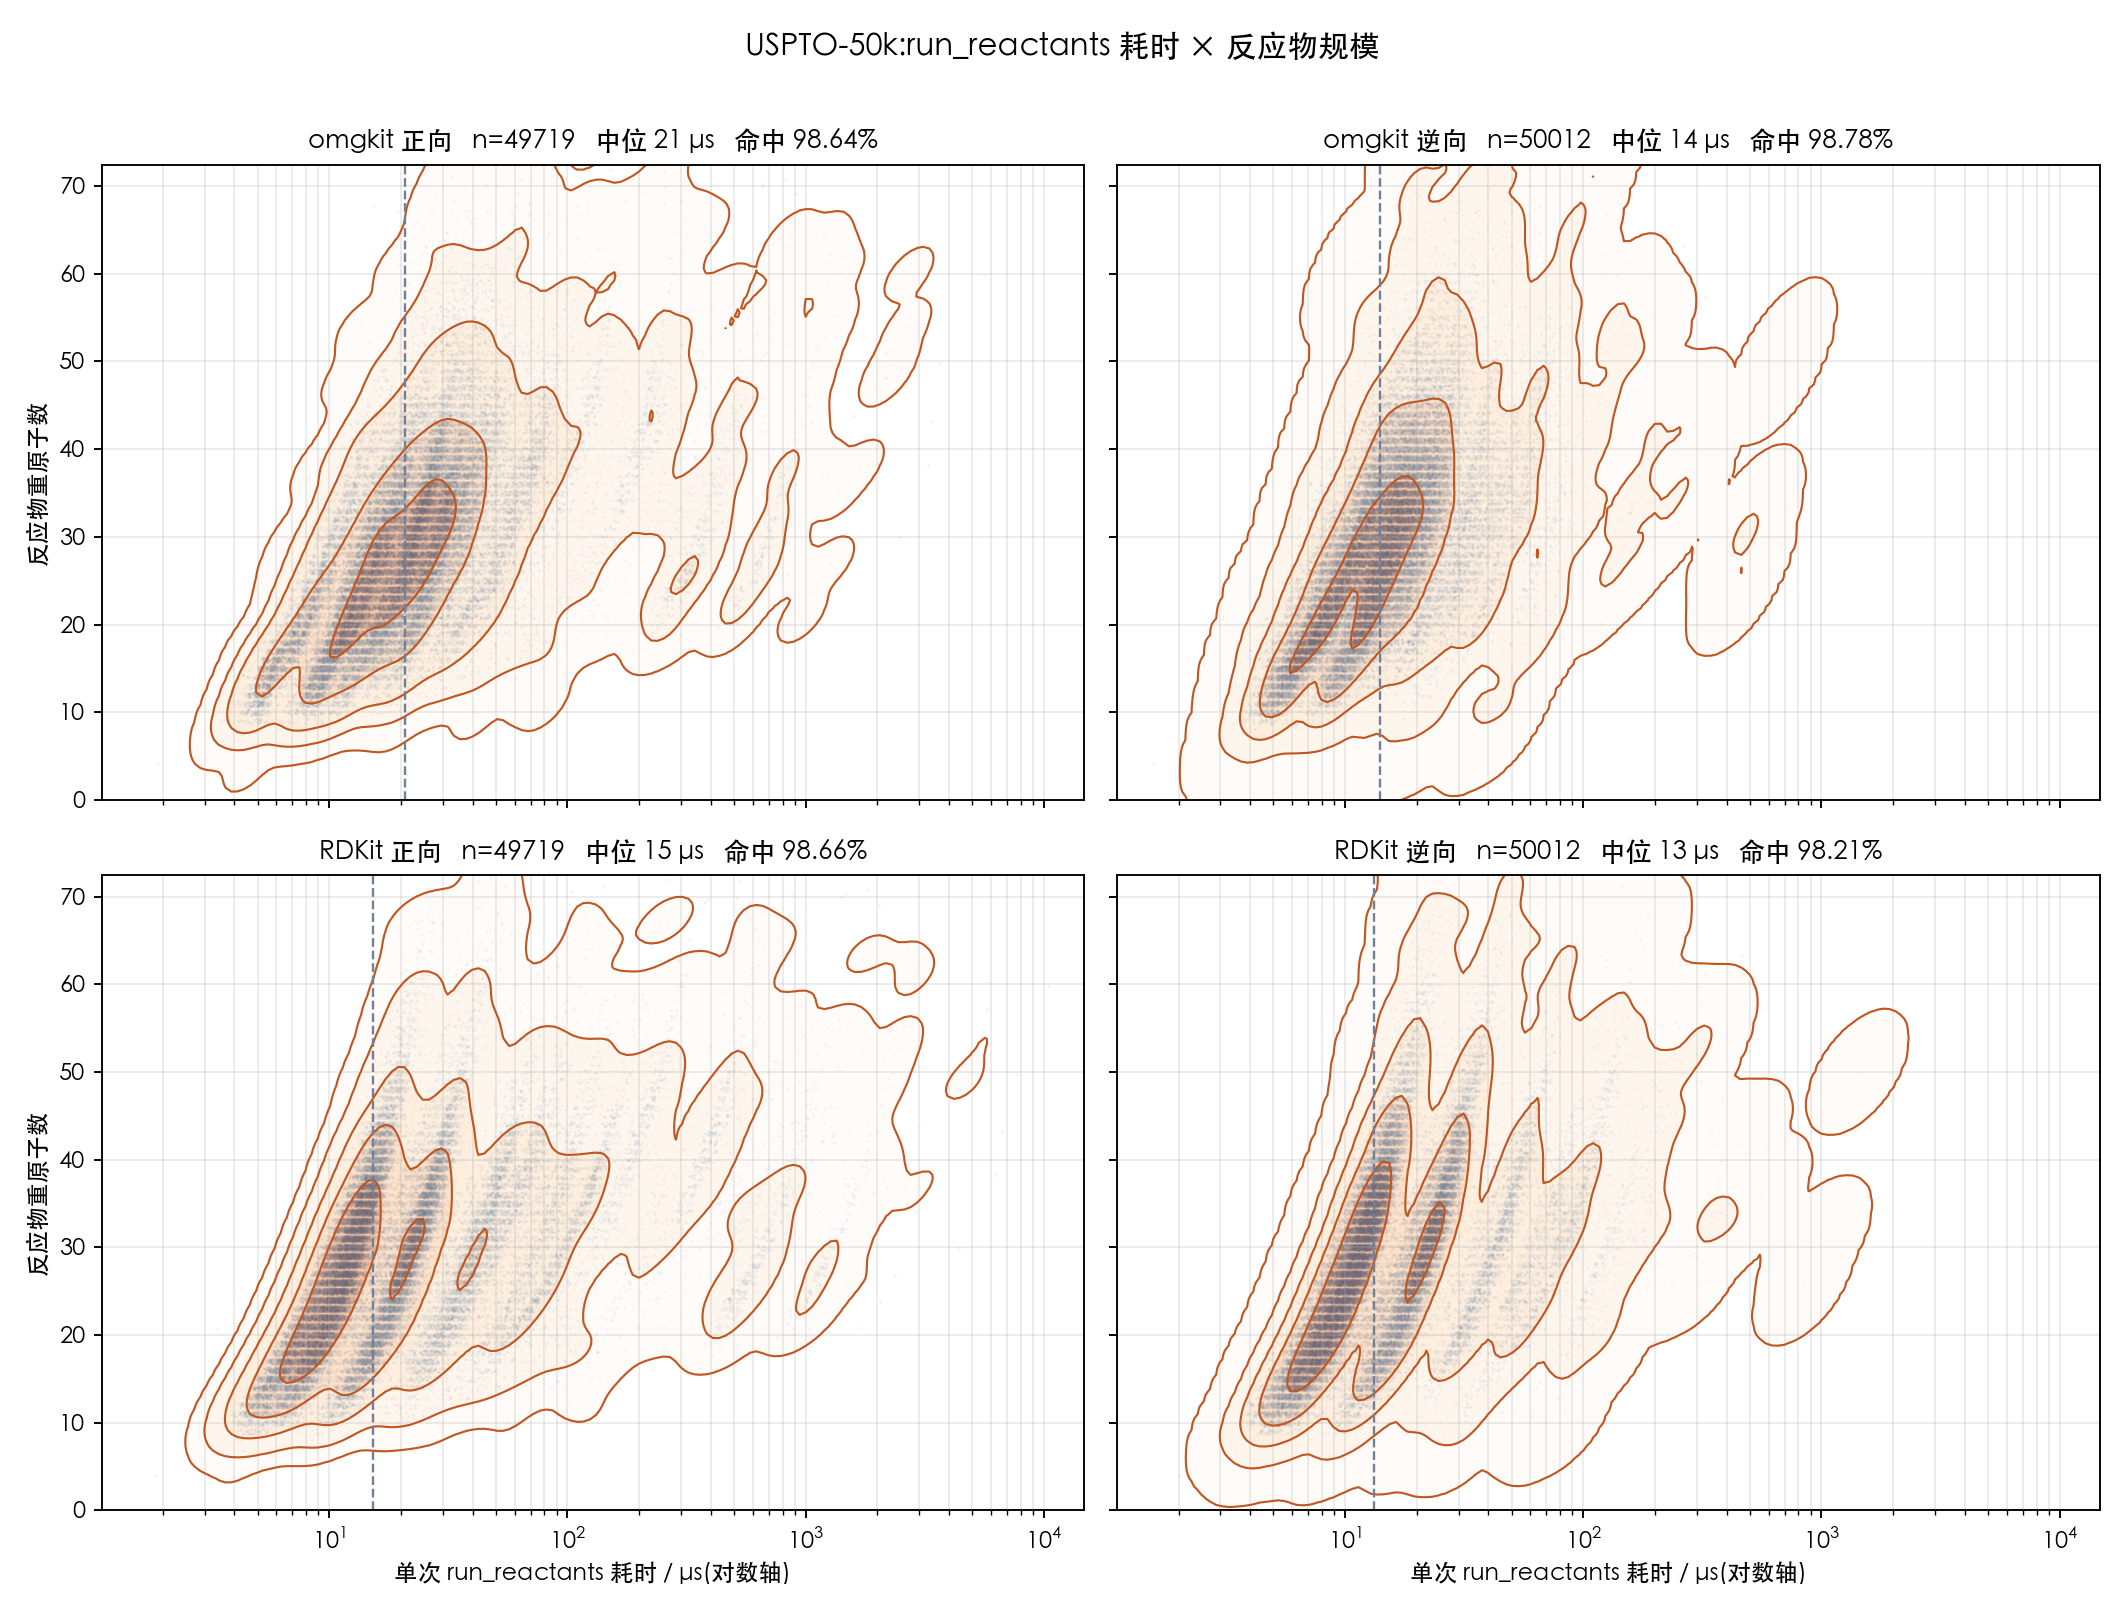
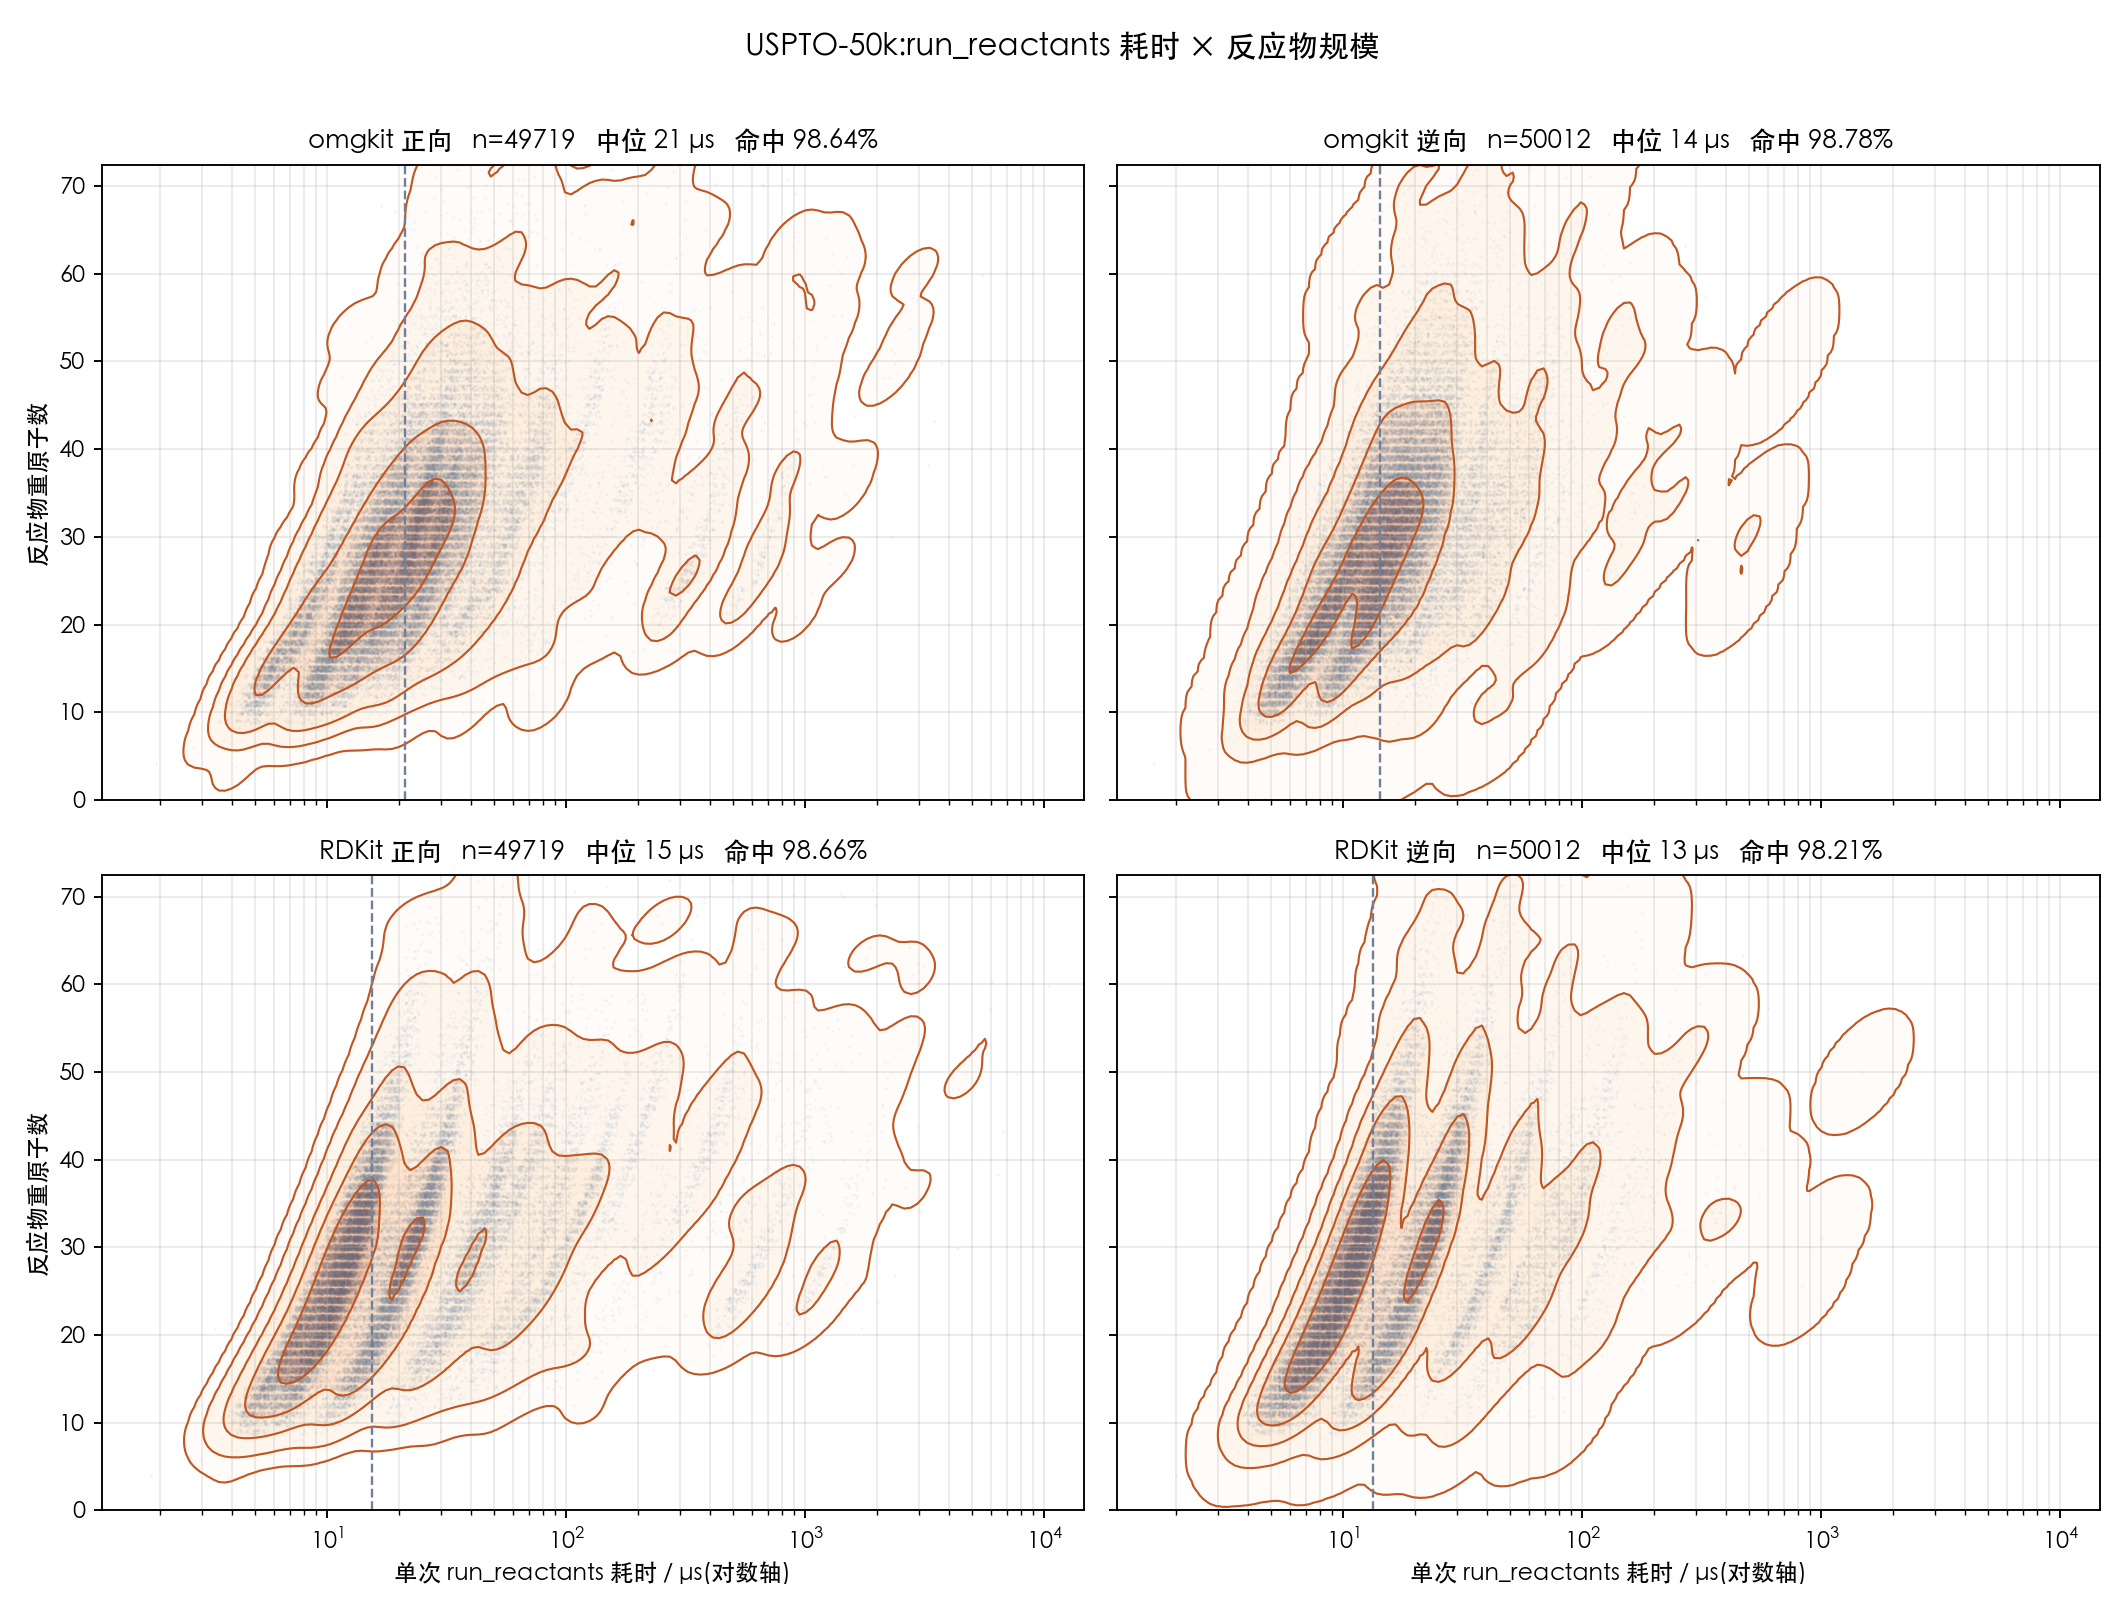
修:方向键的键级要求比默认键还严,芳香键上写方向就一处也匹配不上
SMARTS 里不写键符号表示"单键或芳香键",而 `/` `\` 的键级判据写成了仅单键 ——
比不写还严。模板把方向落在一根芳香键上时整条模板一处也匹配不上,run 交白卷。
SMILES 解析那边早就不这么读了(`bond_symbol` 明说"纯方向标记,不指定键级"),
这条结论没搬到 SMARTS 侧。

语料 2 条:US08841334B2、US07683084B2,2-亚氨基苯并噻唑的 N-酰化逆向。模板由
rdchiral 抽出,方向写在环内的 S—c 键上,记录写在 n—c 键上 —— 两端参照原子分处
双键两侧,换算过来几何一致。逆向命中 49400 → 49402,逐条对拍 2 条变化全部是
"未中 → 命中",0 条被碰坏;逐 outcome 审计新增 2 个 outcome,均精确守恒。

判据 a_direction_written_on_an_aromatic_bond_still_matches 卡两头:放宽之后要
匹配得上,而把模板要的几何翻过来必须 0 处命中 —— 免得"放宽键级"变成"顺反不判"。

这 2 条是查归因表加不齐才露出来的:未命中 1288 条,逐中心定责只出 1286 条。
差的 2 条预测集是空的,定责脚本没有预测可比就静默跳过 —— 而"一个产物都没有"
恰恰是最重的一档。summarize.py 因此增加 miss_attribution_gap 对账,非零即报警;
拿修前数据跑会报"有 2 条未被归因",对账自身也非空过。

diff --git a/crates/omgkit-io/src/smarts/eval.rs b/crates/omgkit-io/src/smarts/eval.rs
@@ -225,10 +225,24 @@ fn bond_prim_matches(p: BondPrim, b: &BondProps) -> bool {
         // 匹配。而且单独一条 `/` 本身什么都不表示 —— 顺反是双键加两条参照键
         // 的性质,同样要等映射齐了才判。
         //
-        // 但**键级约束要留着**:`/` 不只表示方向,它还蕴含单键。整个返回 true
-        // 会让 `/` 匹配上双键,于是 `[C]/[C]=[C][C]` 比 `[C][C]=[C][C]` 匹配得
-        // **更多** —— 方向要求只该收紧不该放宽。
-        BondPrim::UpRight | BondPrim::DownRight => b.order == BondOrder::Single,
+        // 但**键级约束要留着**:整个返回 true 会让 `/` 匹配上双键,于是
+        // `[C]/[C]=[C][C]` 比 `[C][C]=[C][C]` 匹配得**更多** —— 加了方向
+        // 只该收紧不该放宽。
+        //
+        // 而这里的约束就是[默认键]那一个:**单键或芳香键**。写成"仅单键"会比
+        // 默认键**更严**,于是在芳香键上写方向的模板一处也匹配不上 —— 稠环模板
+        // 里这是常态,方向落在环内某根芳香键上并不罕见。方向该改的是朝向,不是
+        // 键级;能不能带方向由写模板的人负责,不由匹配代为否决。
+        //
+        // SMILES 解析那边早就是这么做的(见 `smiles.rs` 的 `bond_symbol`:
+        // "`/` `\` 是**纯方向**标记,不指定键级")—— OpenSMILES 把方向键描述为
+        // "单键",照字面实现会错。同一条结论要在 SMARTS 这边一并成立,否则
+        // 同一根键读进来是芳香的,查询却按单键去配。
+        //
+        // [默认键]: BondExpr::default_bond
+        BondPrim::UpRight | BondPrim::DownRight => {
+            matches!(b.order, BondOrder::Single | BondOrder::Aromatic)
+        }
         // 配位键的两个基元靠朝向区分
         BondPrim::Dative => b.order == BondOrder::Dative && b.dative_forward,
         BondPrim::DativeReversed => b.order == BondOrder::Dative && !b.dative_forward,

diff --git a/crates/omgkit-match/tests/basic.rs b/crates/omgkit-match/tests/basic.rs
@@ -217,3 +217,44 @@ fn cis_trans_matching_is_independent_of_how_the_molecule_was_written() {
         }
     }
 }
+
+/// 方向键的**键级**要求就是默认键那一个:单键或芳香键。
+///
+/// 写成"仅单键"会比不写方向还严,于是模板把方向落在一根**芳香**键上时一处也
+/// 匹配不上 —— 而稠环模板里这很常见。取自语料 US08841334B2(2-亚氨基苯并噻唑
+/// 的 N-酰化,逆向):模板在环内的 S—c 键上写了 `/`,底物那根键是芳香键。
+///
+/// 判据卡两头:放宽之后要匹配得上,而**几何约束不能跟着丢**。
+#[test]
+fn a_direction_written_on_an_aromatic_bond_still_matches() {
+    // 底物的方向写在 n—c 上,模板写在 s—c 上 —— 参照原子分处双键两侧
+    let substrate = "COCCn1/c(=N/C(=O)CC2CCCC2)sc2cc(F)ccc21";
+
+    assert_eq!(
+        count("[#16;a]/[c]", substrate),
+        2,
+        "芳香键上写方向,键级不该被否掉"
+    );
+    assert_eq!(
+        count("[#16;a][c]", substrate),
+        2,
+        "不写方向的同一个查询 —— 两者在键级上必须同义"
+    );
+    assert_eq!(
+        count("[#16;a]-[c]", substrate),
+        0,
+        "写死单键才该落空 —— `-` 与 `/` 不是一回事"
+    );
+
+    // 语料原模板的反应物侧:换算过参照系之后几何是一致的
+    let tpl = "[#16;a:4]/[c:5](=[N;H0;D2;+0:6]\\[C;H0;D3;+0:1](-[C:2])=[O;D1;H0:3]):[#7;a:7]";
+    assert_eq!(count(tpl, substrate), 1, "参照系换算过来该匹配");
+
+    // 把 N 那一端的方向翻过来 —— 要的几何变了,一处也不该中
+    let flipped = "[#16;a:4]/[c:5](=[N;H0;D2;+0:6]/[C;H0;D3;+0:1](-[C:2])=[O;D1;H0:3]):[#7;a:7]";
+    assert_eq!(
+        count(flipped, substrate),
+        0,
+        "键级放宽了,几何约束不能跟着丢"
+    );
+}

diff --git a/benchmark-uspto-50k/scripts/summarize.py b/benchmark-uspto-50k/scripts/summarize.py
@@ -67,6 +67,16 @@ def main():
     if os.path.exists(args.verdicts):
         c = Counter(json.loads(l)["verdict"] for l in open(args.verdicts))
         out["miss_attribution"] = dict(c.most_common())
+        # 归因合计必须等于未命中数。
+        #
+        # 定责脚本要拿预测与真值逐个立体中心比,**没有预测就无从比起**,于是
+        # 那条记录被静默跳过 —— 而"一个产物都没有"恰恰是最重的一档。归因表
+        # 因此会看着干净:它只统计了能比的那些。实测漏过 2 条(row 15318 /
+        # 31347,方向键写在芳香键上导致模板一处也匹配不上)。
+        #
+        # 所以这里对账,对不上就写进结果并显式报出来,不靠人去加一遍。
+        missed = sum(out[d]["neither"] + out[d]["only_rdkit"] for d in ("fwd", "retro"))
+        out["miss_attribution_gap"] = missed - sum(c.values())
     if os.path.exists(args.rdchiral):
         c = Counter(json.loads(l)["final"] for l in open(args.rdchiral))
         out["engine_adjudication"] = dict(c.most_common())
@@ -97,6 +107,10 @@ def main():
         print("\n未命中归因(按反应计):")
         for k, v in out["miss_attribution"].items():
             print(f"  {k:34s} {v}")
+        gap = out["miss_attribution_gap"]
+        print(f"  {'合计':34s} {sum(out['miss_attribution'].values())}")
+        if gap:
+            print(f"  !! 有 {gap} 条未命中没被归因 —— 多半是它们连预测都没有,定责脚本比不了")
     if "engine_adjudication" in out:
         print("\n疑似引擎缺陷的 rdchiral 裁定:")
         for k, v in out["engine_adjudication"].items():
